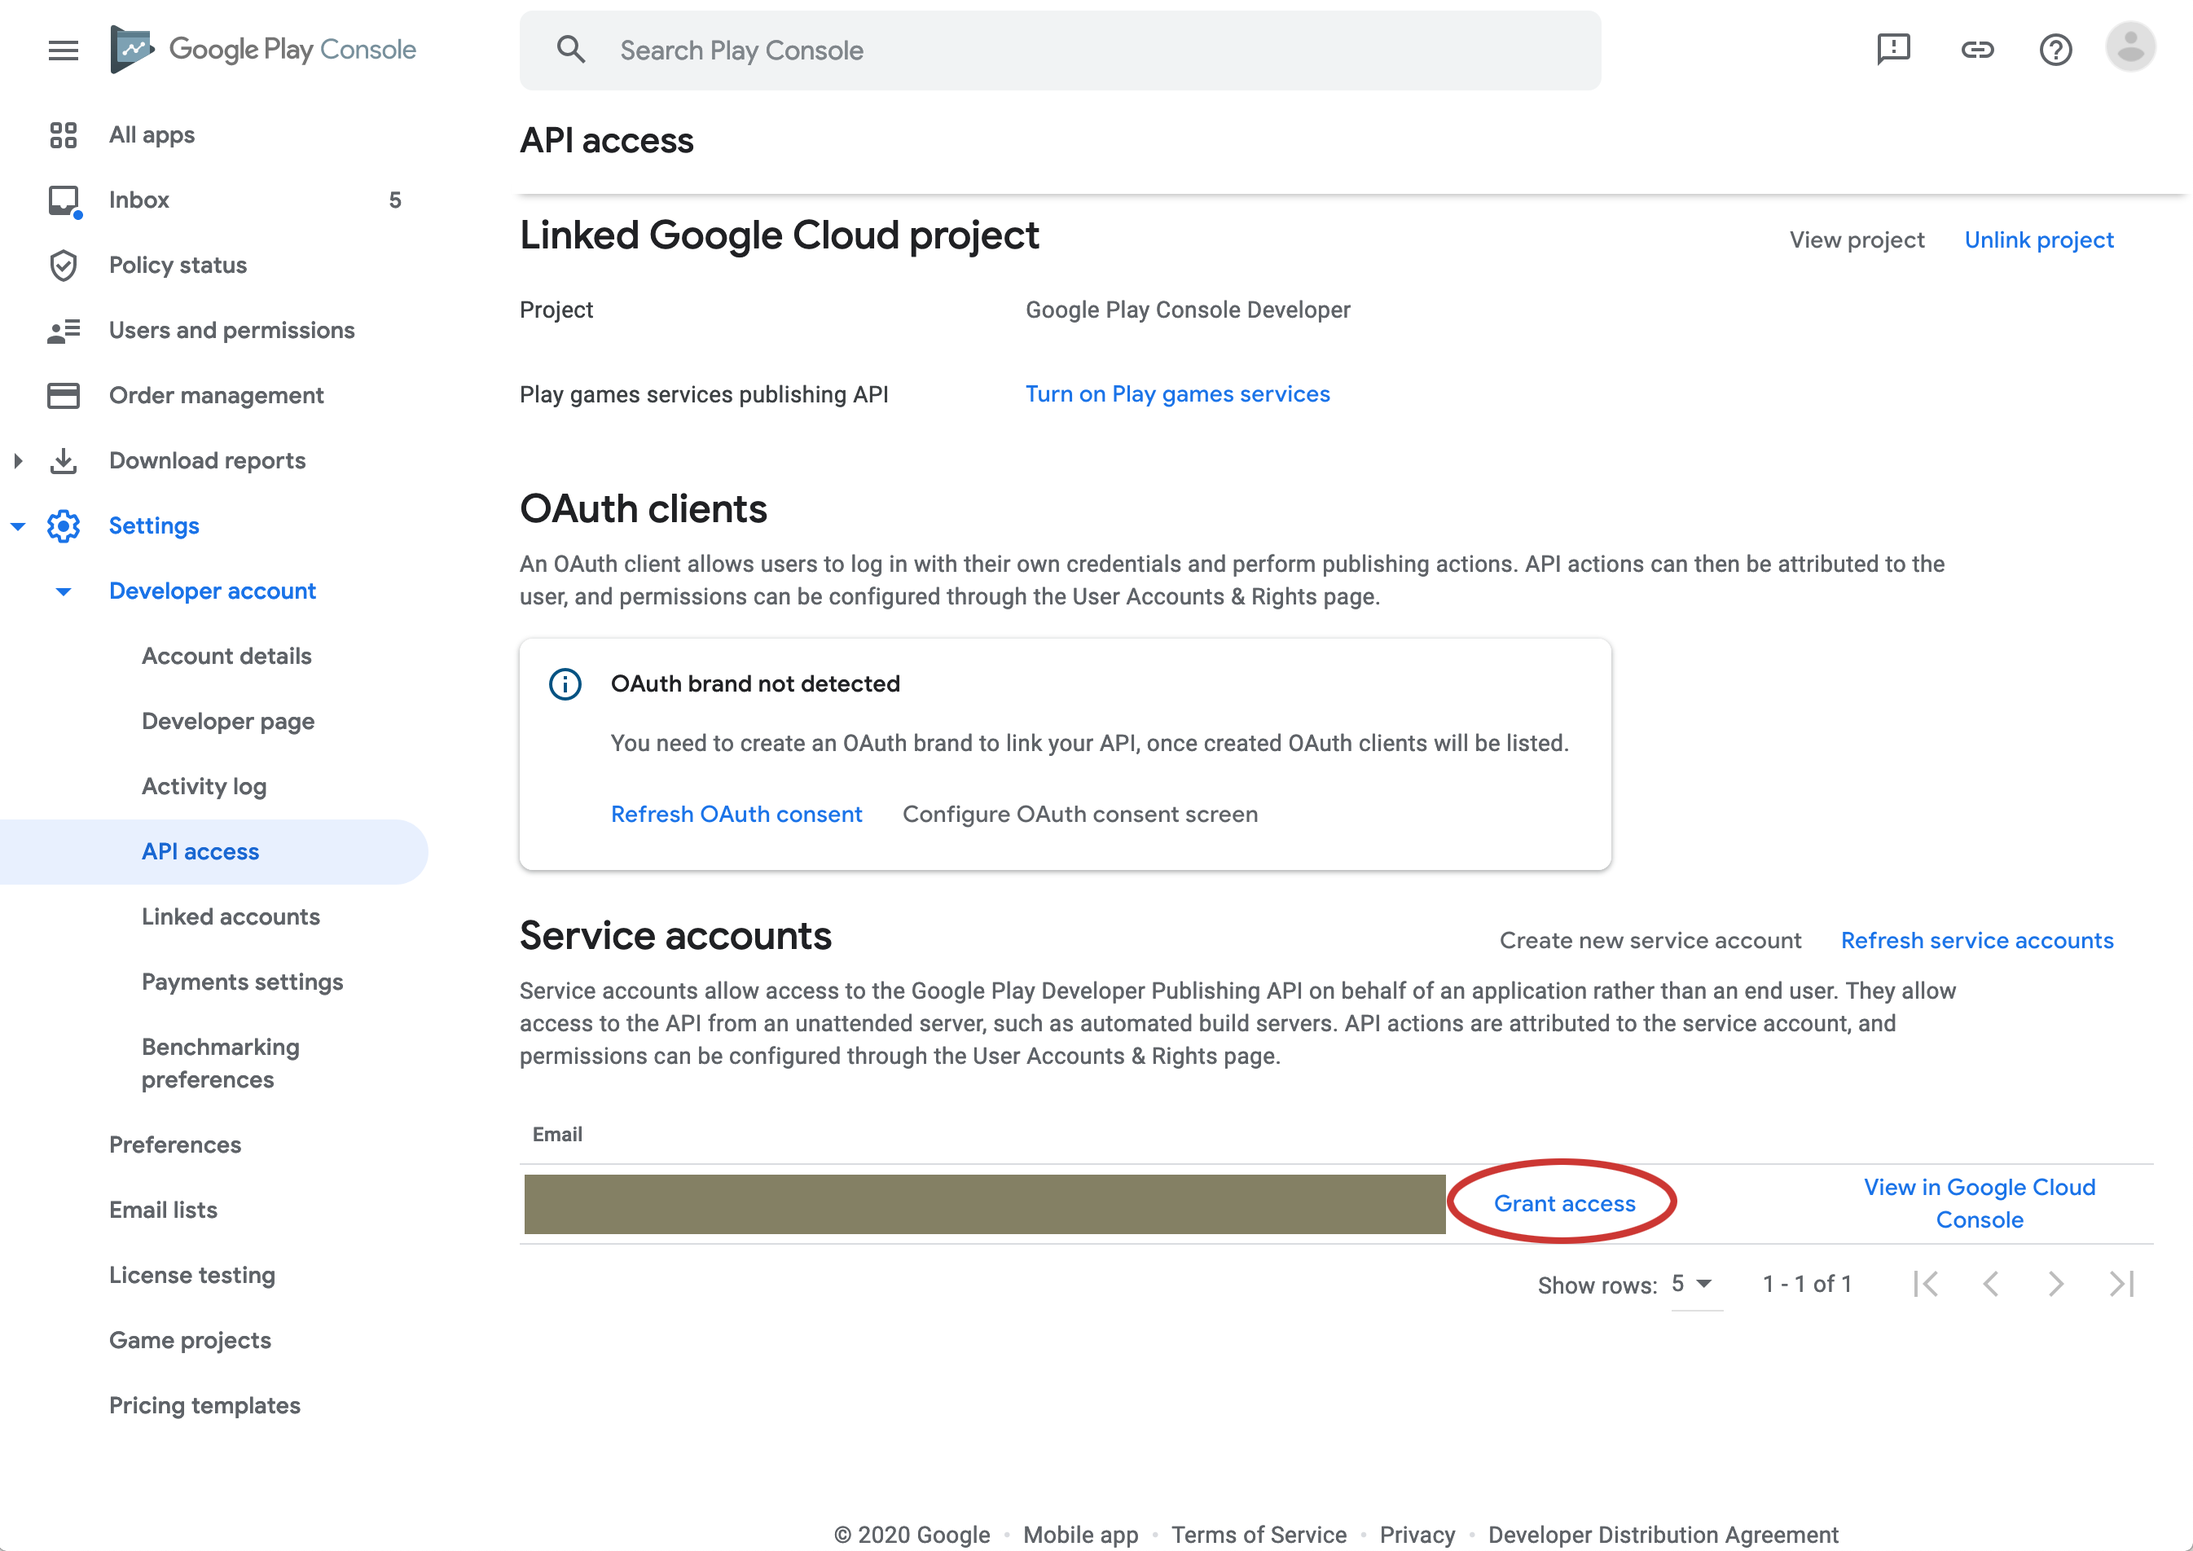
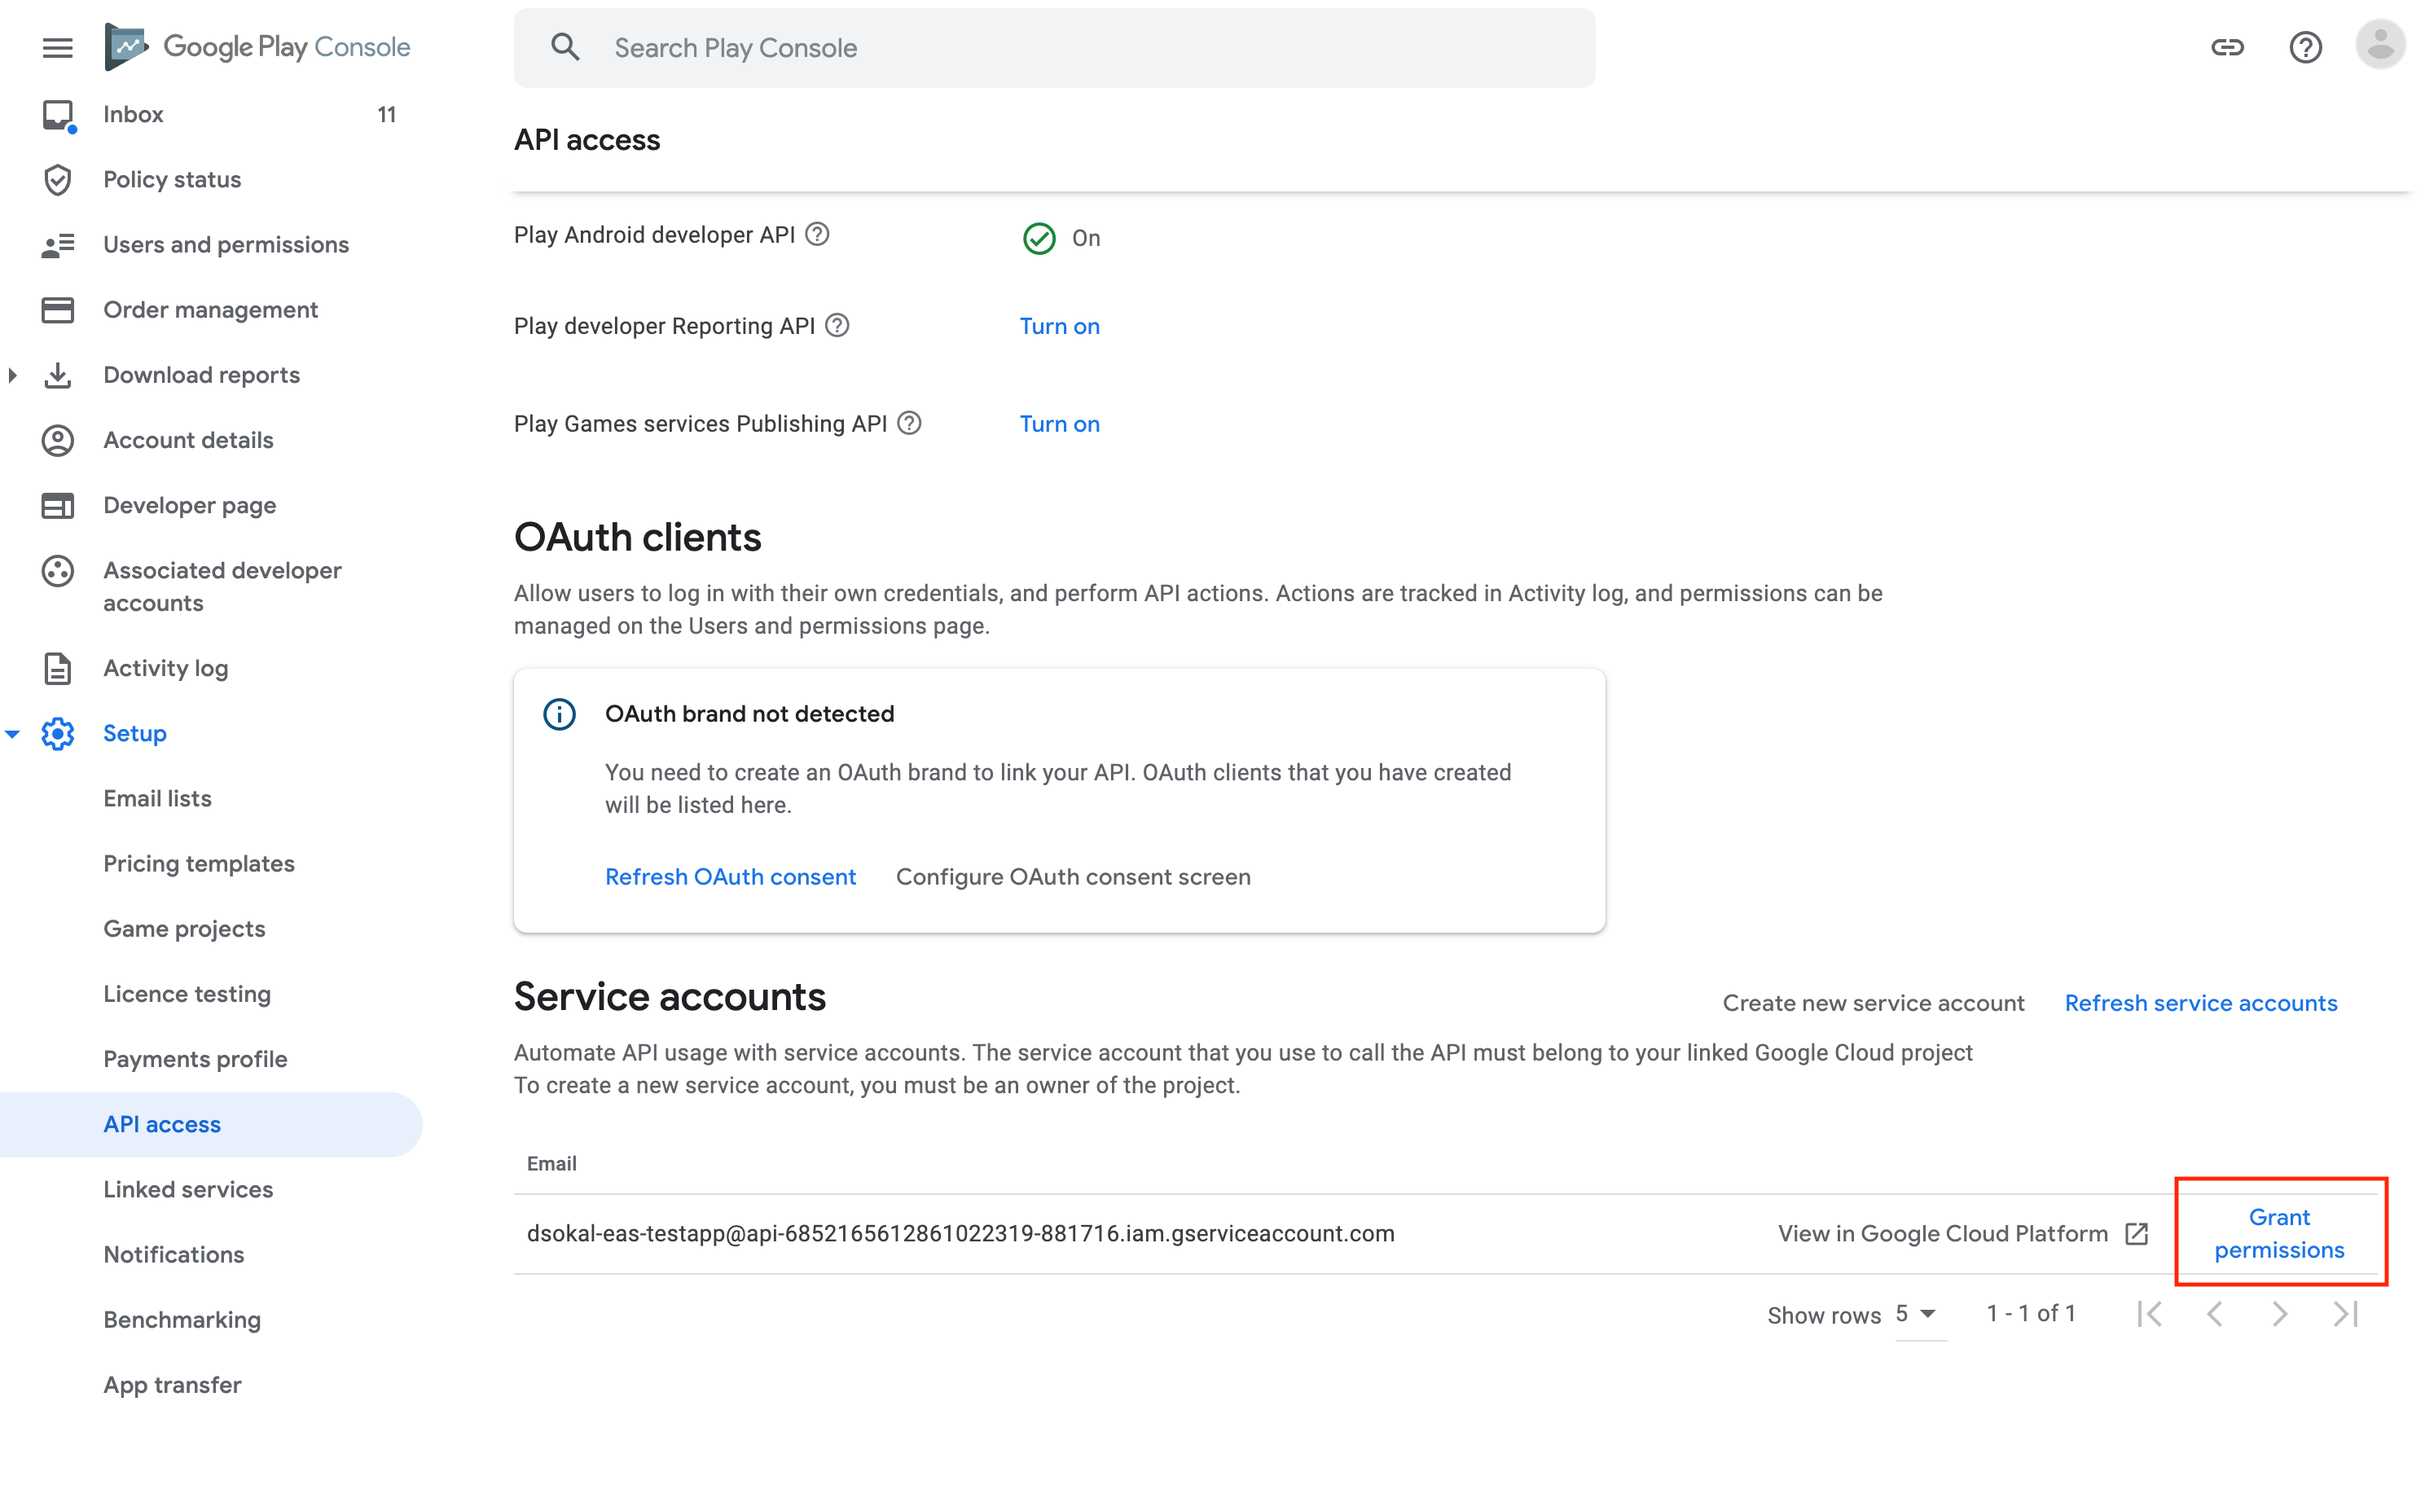
update page on creating google service account

diff --git a/creating-google-service-account.md b/creating-google-service-account.md
@@ -2,17 +2,17 @@
 
 If you’d like to submit your Android app to Google Play Store with `eas submit` you need to create a Google Service Account key. This page will guide you through this process.
 
-1. Open [Google Play Console](https://play.google.com/apps/publish/) and go to the **Settings** tab.
+1. Open [Google Play Console](https://play.google.com/apps/publish/), expand **Setup**, and choose **API access**.
 
 [<img src="./assets/creating-google-service-account/01-open-google-play-console.png" width="800" />](./assets/creating-google-service-account/01-open-google-play-console.png)
 
-2. Choose **API access** from the sidebar. If you see a message saying API access is not enabled for your account, you must first link your Google Play developer account with a Google Developer Project. On this page, select **Choose a project to link**, then either link it to an existing project if you have one, or select **Create new project** and then click **Link project**.
+2. If you see a message saying API access is not enabled for your account, you must first link your Google Play developer account with a Google Developer Project. On this page, select **Choose a project to link**, then either link it to an existing project if you have one, or select **Create new project** and then click **Link project**.
 
 [<img src="./assets/creating-google-service-account/02-api-access.png" width="800" />](./assets/creating-google-service-account/02-api-access.png)
 
 [<img src="./assets/creating-google-service-account/03-create-new-project.png" width="800" />](./assets/creating-google-service-account/03-create-new-project.png)
 
-3. Click **create new service account** and follow the **Google Cloud Platform** link in the dialog.
+3. Click **Create new service account** and follow the **Google Cloud Platform** link in the dialog.
 
 [<img src="./assets/creating-google-service-account/04-create-new-service-account.png" width="800" />](./assets/creating-google-service-account/04-create-new-service-account.png)
 
@@ -30,12 +30,13 @@ If you’d like to submit your Android app to Google Play Store with `eas submit
 
 [<img src="./assets/creating-google-service-account/08-service-account-permissions.png" width="800" />](./assets/creating-google-service-account/08-service-account-permissions.png)
 
-7. Select **Create key** from the options button for your newly created Service Account. Choose **JSON** and then the **CREATE** button. Download the `.json` file and store it in a safe place.
+7. Select **Manage keys** from the options button for your newly created Service Account, then **Create new key**. Choose **JSON** and then the **CREATE** button. Download the `.json` file and store it in a safe place.
 
-[<img src="./assets/creating-google-service-account/09-create-key.png" width="800" />](./assets/creating-google-service-account/09-create-key.png)
+[<img src="./assets/creating-google-service-account/09-a-create-key.png" width="800" />](./assets/creating-google-service-account/09-a-create-key.png)
+[<img src="./assets/creating-google-service-account/09-b-create-key.png" width="800" />](./assets/creating-google-service-account/09-b-create-key.png)
 [<img src="./assets/creating-google-service-account/10-create-json-key.png" width="800" />](./assets/creating-google-service-account/10-create-json-key.png)
 
-8. Return to the **API access page** on the Google Play Console and ensure it shows your new service account. Click on **Grant access** for the newly added service account.
+8. Return to the **API access page** on the Google Play Console and ensure it shows your new service account. Click on **Grant permissions** for the newly added service account.
 
 [<img src="./assets/creating-google-service-account/11-grant-access.png" width="800" />](./assets/creating-google-service-account/11-grant-access.png)
 
@@ -43,4 +44,8 @@ If you’d like to submit your Android app to Google Play Store with `eas submit
 
 [<img src="./assets/creating-google-service-account/12-invite-user.png" width="800" />](./assets/creating-google-service-account/12-invite-user.png)
 
-10. That's all! From now on, you can use the generated Google Service Account to upload your app with `eas submit`.
+10. Click **Send invitation**,
+
+[<img src="./assets/creating-google-service-account/13-send-invitation.png" width="800" />](./assets/creating-google-service-account/13-send-invitation.png)
+
+11. That's all! From now on, you can use the generated Google Service Account to upload your app with `eas submit`.
